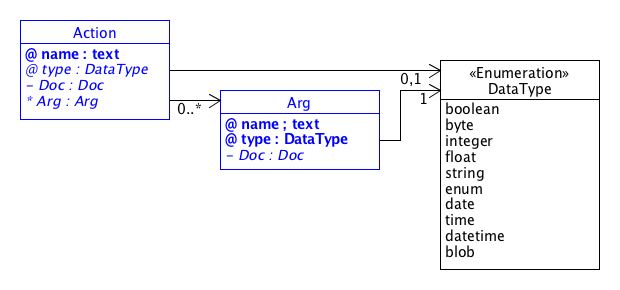
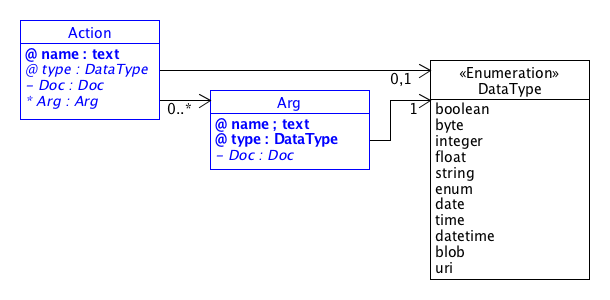
Added URI datatype.

Changed region(s): [[0.0311, 0.0621, 0.9967, 0.9621], [0.9656, 0.3724, 0.9967, 0.9]]

diff --git a/README.md b/README.md
@@ -24,7 +24,7 @@ You can find further Information here:
 
 ## Changes in 2.0
 - Introduced RootDevice to handle
-- Added new data types (byte, float, array, enum, date, time, datetime, blob)
+- Added new data types (byte, float, array, enum, date, time, datetime, blob, uri)
 - Added ``readable`` and ``eventable`` to data points.
 - Added otional ``<SerialNumber>``, ``<VendorURL>`` and ``<FirmwareVersion>`` elements to DeviceInfo
 - Added optional ``<Doc>`` element to Event
